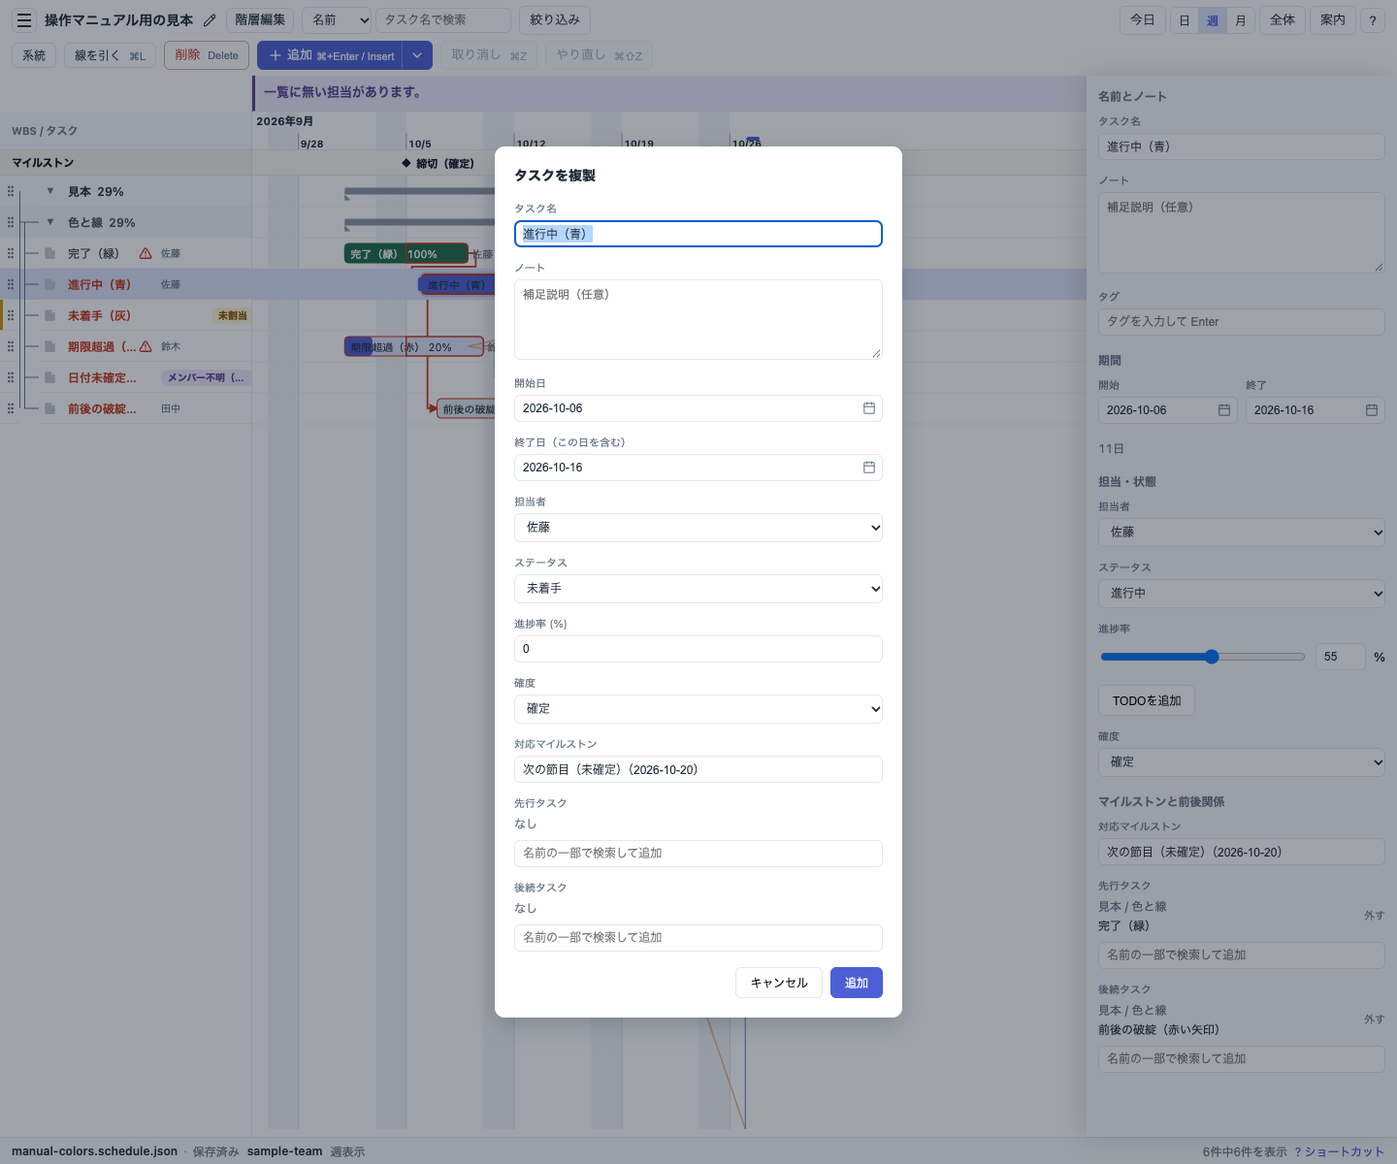
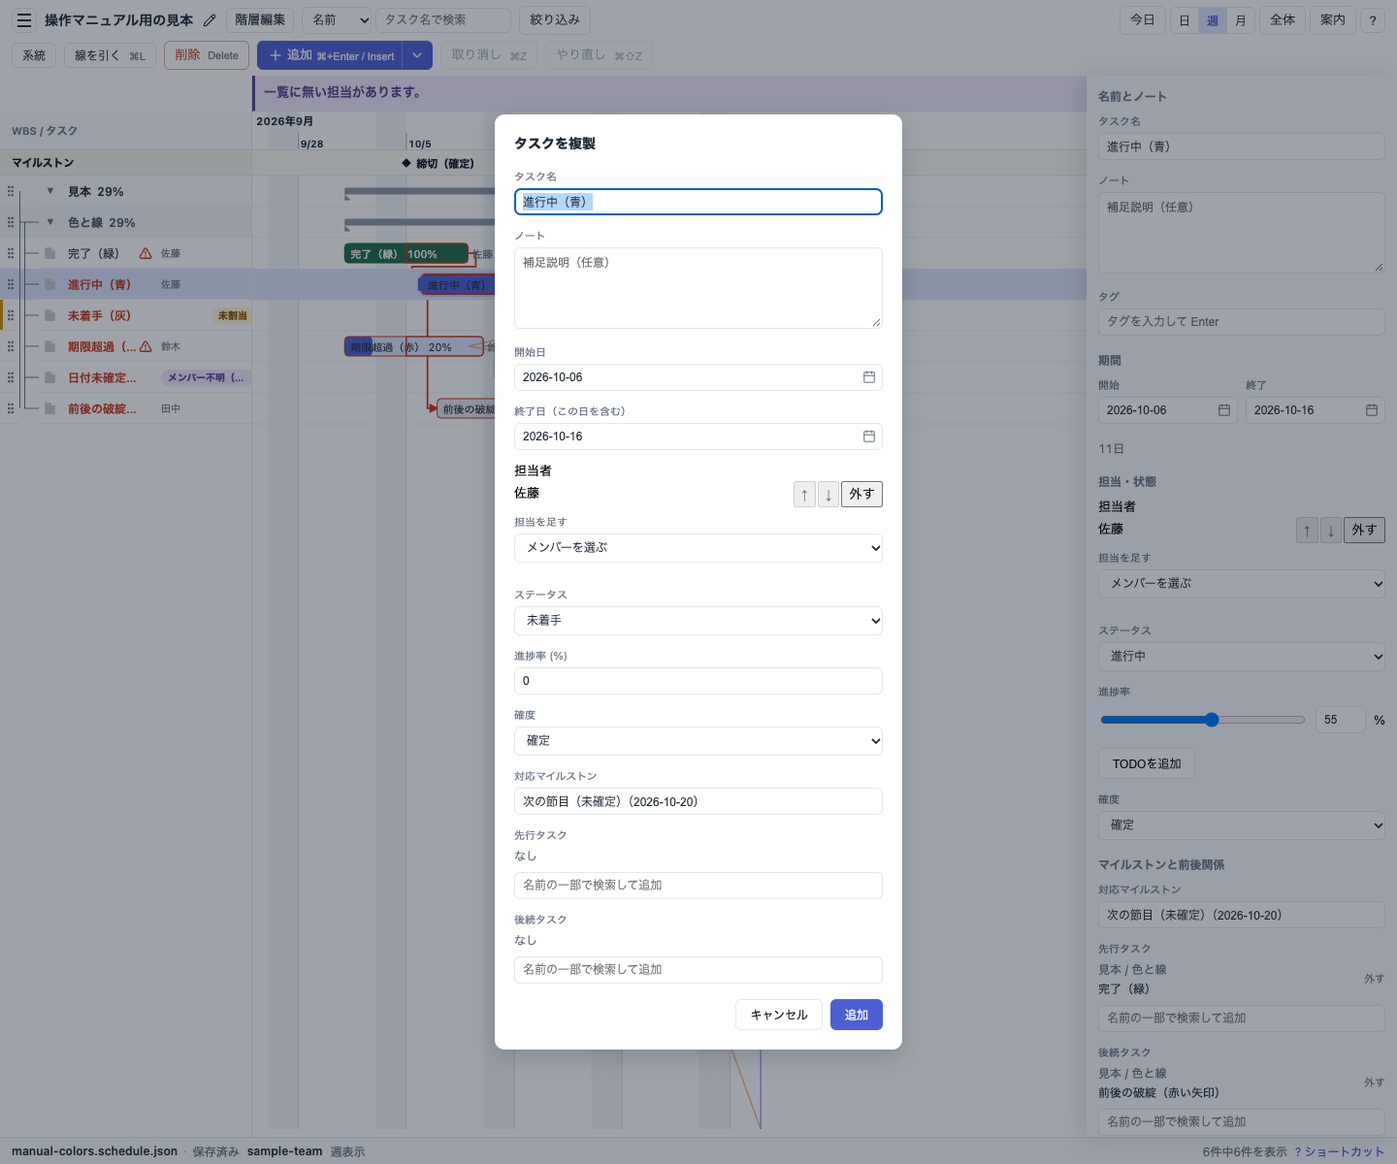
#401 の残りで文書と一人用の経路を複数担当仕様に揃える
write-schedule・スキーマ説明・操作マニュアルを更新し、未使用の担当表示経路を整理する。詳細と複製の図を撮り直し、manual-screenshot のスタブを足して撮影スクリプトを通す。

Closes #401
Closes #313

diff --git a/scripts/manual-screenshot/tauri-invoke.ts b/scripts/manual-screenshot/tauri-invoke.ts
@@ -4,6 +4,10 @@ type OpenPick = { path: string; contents: string };
 
 let pendingOpenPick: OpenPick | null = null;
 let openScheduleDiskContents: string | null = null;
+const memberCatalogBodies = new Map<string, string>();
+let selectedMemberCatalogId: string | null = null;
+const statusCatalogBodies = new Map<string, string>();
+let selectedStatusCatalogId: string | null = null;
 
 export function setManualScreenshotOpenPick(pick: OpenPick | null): void {
   pendingOpenPick = pick;
@@ -35,6 +39,12 @@ export async function manualScreenshotInvoke(
       return null;
     case "register_window_focus":
       return null;
+    case "read_focused_window_label":
+      return "main";
+    case "is_store_distribution":
+      return false;
+    case "report_external_schedule_drop_ready":
+      return null;
     case "unregister_window_session":
       return null;
     case "read_schedule_recovery":
@@ -44,6 +54,84 @@ export async function manualScreenshotInvoke(
     case "read_last_schedule_file":
       return null;
     case "clear_last_schedule_path":
+      return null;
+    case "get_members_settings":
+      return {
+        selectedCatalogId: selectedMemberCatalogId,
+        catalogs: [...memberCatalogBodies.keys()]
+          .sort((a, b) => a.localeCompare(b, "ja"))
+          .map((id) => ({ id, label: id })),
+      };
+    case "import_member_catalog": {
+      const catalogId = String(args.catalogId ?? "").trim();
+      const contents = String(args.contents ?? "");
+      if (catalogId) {
+        memberCatalogBodies.set(catalogId, contents);
+        if (selectedMemberCatalogId == null) {
+          selectedMemberCatalogId = catalogId;
+        }
+      }
+      return null;
+    }
+    case "read_member_catalog": {
+      const catalogId = String(args.catalogId ?? "");
+      return memberCatalogBodies.get(catalogId) ?? null;
+    }
+    case "delete_member_catalog": {
+      const catalogId = String(args.catalogId ?? "");
+      memberCatalogBodies.delete(catalogId);
+      if (selectedMemberCatalogId === catalogId) {
+        selectedMemberCatalogId = null;
+      }
+      return null;
+    }
+    case "set_selected_member_catalog": {
+      const catalogId = args.catalogId;
+      selectedMemberCatalogId =
+        typeof catalogId === "string" && catalogId.length > 0 ? catalogId : null;
+      return null;
+    }
+    case "get_statuses_settings":
+      return {
+        selectedCatalogId: selectedStatusCatalogId,
+        catalogs: [...statusCatalogBodies.keys()]
+          .sort((a, b) => a.localeCompare(b, "ja"))
+          .map((id) => ({ id, label: id })),
+      };
+    case "import_status_catalog": {
+      const catalogId = String(args.catalogId ?? "").trim();
+      const contents = String(args.contents ?? "");
+      if (catalogId) {
+        statusCatalogBodies.set(catalogId, contents);
+        if (selectedStatusCatalogId == null) {
+          selectedStatusCatalogId = catalogId;
+        }
+      }
+      return null;
+    }
+    case "read_status_catalog": {
+      const catalogId = String(args.catalogId ?? "");
+      return statusCatalogBodies.get(catalogId) ?? null;
+    }
+    case "set_selected_status_catalog": {
+      const catalogId = args.catalogId;
+      selectedStatusCatalogId =
+        typeof catalogId === "string" && catalogId.length > 0 ? catalogId : null;
+      return null;
+    }
+    case "release_field_extension_edit":
+      return null;
+    case "get_field_extensions_settings":
+      return { selectedCatalogIds: [], catalogs: [] };
+    case "get_calendar_state":
+      return { label: null };
+    case "read_recent_files":
+      return { schedules: [], workspaces: [] };
+    case "clear_recent_files":
+      return { schedules: [], workspaces: [] };
+    case "record_recent_files":
+      return args.store ?? { schedules: [], workspaces: [] };
+    case "read_app_calendar":
       return null;
     case "read_schedule_filter":
       return null;

diff --git a/src/model/assigneeDisplay.test.ts b/src/model/assigneeDisplay.test.ts
@@ -7,7 +7,6 @@ import {
   matchesUnassignedFilter,
   memberOptionLabel,
   assigneeExcelCellLabel,
-  resolveAssigneeDisplay,
   resolveAssigneeRowDisplay,
 } from "./assigneeDisplay";
 import { memberMapFromList } from "./assigneeDisplay";
@@ -27,26 +26,34 @@ describe("assigneeColumnChars", () => {
   });
 });
 
-describe("resolveAssigneeDisplay", () => {
+describe("resolveAssigneeRowDisplay", () => {
   const catalog = memberMapFromList(members);
   const duplicateNames = new Set(["田中"]);
 
   it("keeps empty as unassigned", () => {
-    expect(resolveAssigneeDisplay([], catalog).kind).toBe("unassigned");
+    expect(resolveAssigneeRowDisplay([], catalog, duplicateNames).kind).toBe(
+      "unassigned",
+    );
   });
 
   it("resolves a known id to text label", () => {
-    expect(resolveAssigneeDisplay(["sato"], catalog, duplicateNames)).toEqual({
+    expect(resolveAssigneeRowDisplay(["sato"], catalog, duplicateNames)).toEqual({
       kind: "text",
       label: "佐藤",
     });
   });
 
   it("marks ids missing from the catalog as allUnknown", () => {
-    expect(resolveAssigneeDisplay(["missing"], catalog).kind).toBe("allUnknown");
-    expect(resolveAssigneeDisplay(["sato"], null).kind).toBe("allUnknown");
     expect(
-      assigneeSidebarLabel(resolveAssigneeDisplay(["missing"], null)),
+      resolveAssigneeRowDisplay(["missing"], catalog, duplicateNames).kind,
+    ).toBe("allUnknown");
+    expect(resolveAssigneeRowDisplay(["sato"], null, duplicateNames).kind).toBe(
+      "allUnknown",
+    );
+    expect(
+      assigneeSidebarLabel(
+        resolveAssigneeRowDisplay(["missing"], null, duplicateNames),
+      ),
     ).toBe("メンバー不明（missing）");
   });
 
@@ -98,7 +105,11 @@ describe("assigneeExcelCellLabel", () => {
     expect(assigneeExcelCellLabel([], null)).toBe("未割当");
     expect(
       assigneeExcelCellLabel([], catalog),
-    ).toBe(assigneeSidebarLabel(resolveAssigneeDisplay([], catalog)));
+    ).toBe(
+      assigneeSidebarLabel(
+        resolveAssigneeRowDisplay([], catalog, duplicateNames),
+      ),
+    );
   });
 
   it("joins all assignees in order with読点", () => {
@@ -112,7 +123,7 @@ describe("assigneeExcelCellLabel", () => {
       assigneeExcelCellLabel(["sato", "tanaka"], catalog),
     ).toBe(
       assigneeSidebarLabel(
-        resolveAssigneeDisplay(["sato", "tanaka"], catalog, duplicateNames),
+        resolveAssigneeRowDisplay(["sato", "tanaka"], catalog, duplicateNames),
       ),
     );
   });

diff --git a/src/components/Sidebar.tsx b/src/components/Sidebar.tsx
@@ -15,7 +15,7 @@ import {
   assigneeColumnChars,
   assigneeSidebarLabel,
   duplicateMemberNamesFromCatalog,
-  resolveAssigneeDisplay,
+  resolveAssigneeRowDisplay,
 } from "../model/assigneeDisplay";
 import type { SidebarColumnsPreference } from "../model/viewPreferences";
 import { daysBetween, fmtMonthDay, parseDate } from "../model/dates";
@@ -242,7 +242,7 @@ export function Sidebar({
       assigneeColumnChars(
         rows.flatMap((row) => {
           if (row.type !== "task") return [];
-          const display = resolveAssigneeDisplay(
+          const display = resolveAssigneeRowDisplay(
             row.task.assigneeIds,
             memberCatalog,
             assigneeDuplicateNames,
@@ -1394,7 +1394,7 @@ function TaskSidebarRow({
     () => duplicateMemberNamesFromCatalog(memberCatalog),
     [memberCatalog],
   );
-  const assigneeDisplay = resolveAssigneeDisplay(
+  const assigneeDisplay = resolveAssigneeRowDisplay(
     task.assigneeIds,
     memberCatalog,
     assigneeDuplicateNames,

diff --git a/src/model/assigneeDisplay.ts b/src/model/assigneeDisplay.ts
@@ -61,14 +61,6 @@ export function resolveAssigneeRowDisplay(
   return { kind: "text", label };
 }
 
-export function resolveAssigneeDisplay(
-  assigneeIds: readonly MemberId[] | null,
-  catalog: Map<MemberId, Member> | null,
-  duplicateNames: ReadonlySet<string> = new Set(),
-): AssigneeRowDisplay {
-  return resolveAssigneeRowDisplay(assigneeIds ?? [], catalog, duplicateNames);
-}
-
 export function isResolvedAssignee(
   assigneeIds: readonly MemberId[],
   catalog: Map<MemberId, Member> | null,
@@ -89,9 +81,6 @@ export function taskHasUnknownAssignee(
 ): boolean {
   return assigneeIds.some((id) => isUnknownAssigneeId(id, catalog));
 }
-
-/** @deprecated taskHasUnknownAssignee を使う */
-export const isUnknownAssignee = taskHasUnknownAssignee;
 
 /** フィルタ「割り当てなし」: 空、またはカタログに解決できる担当が一人もいない。 */
 export function matchesUnassignedFilter(

diff --git a/scripts/manual-screenshot/tauri-window-shim.ts b/scripts/manual-screenshot/tauri-window-shim.ts
@@ -1,13 +1,29 @@
+type CloseRequestedEvent = { preventDefault: () => void };
+
 type WindowStub = {
   label: string;
   setTitle: () => Promise<void>;
-  onCloseRequested: () => Promise<() => void>;
+  close: () => Promise<void>;
+  onCloseRequested: (
+    handler: (event: CloseRequestedEvent) => void | Promise<void>,
+  ) => Promise<() => void>;
+  onFocusChanged: (
+    handler: (event: { payload: boolean }) => void,
+  ) => Promise<() => void>;
+  onDragDropEvent: (
+    handler: (event: {
+      payload: { type: string; paths?: string[] };
+    }) => void,
+  ) => Promise<() => void>;
 };
 
 const mainWindow: WindowStub = {
   label: "main",
   setTitle: async () => undefined,
+  close: async () => undefined,
   onCloseRequested: async () => () => undefined,
+  onFocusChanged: async () => () => undefined,
+  onDragDropEvent: async () => () => undefined,
 };
 
 export function getCurrentWindow(): WindowStub {

diff --git a/src/components/Timeline.tsx b/src/components/Timeline.tsx
@@ -64,7 +64,7 @@ import {
   visibleMonthHeaderLabels,
 } from "../model/monthHeader";
 import { visibleDayIndexRange } from "../model/timelineVisibleDays";
-import { resolveAssigneeDisplay, assigneeSidebarLabel, duplicateMemberNamesFromCatalog } from "../model/assigneeDisplay";
+import { resolveAssigneeRowDisplay, assigneeSidebarLabel, duplicateMemberNamesFromCatalog } from "../model/assigneeDisplay";
 import { KONVA_FONT_FAMILY } from "../model/fontStack";
 import type { Member, MemberId } from "../model/memberTypes";
 import type { StickyLayout } from "../model/stickyRows";
@@ -352,7 +352,7 @@ function TaskBar({
     () => duplicateMemberNamesFromCatalog(memberCatalog),
     [memberCatalog],
   );
-  const assigneeDisplay = resolveAssigneeDisplay(
+  const assigneeDisplay = resolveAssigneeRowDisplay(
     task.assigneeIds,
     memberCatalog,
     assigneeDuplicateNames,

diff --git a/src/model/screenContext.ts b/src/model/screenContext.ts
@@ -1,6 +1,6 @@
 import type { SearchField } from "./scheduleFilterPersistence";
 import { assigneeIdToJson, taskAssigneeIds } from "./assigneeIds";
-import { resolveAssigneeDisplay } from "./assigneeDisplay";
+import { duplicateMemberNamesFromCatalog, resolveAssigneeRowDisplay } from "./assigneeDisplay";
 import {
   BUILTIN_STATUS_ITEMS,
   normalizeStatusItem,
@@ -265,9 +265,10 @@ export function buildActiveFilterConditions(input: {
         name: UNASSIGNED_LABEL,
       });
     } else {
-      const display = resolveAssigneeDisplay(
+      const display = resolveAssigneeRowDisplay(
         [filters.assignee],
         input.memberCatalog,
+        duplicateMemberNamesFromCatalog(input.memberCatalog),
       );
       conditions.push({
         type: "assignee",

diff --git a/src/model/exportHtml.ts b/src/model/exportHtml.ts
@@ -22,7 +22,7 @@ import {
   taskBarExclusiveEnd,
   taskBarWidthPx,
 } from "./timeline";
-import { resolveAssigneeDisplay, assigneeSidebarLabel, duplicateMemberNamesFromCatalog } from "./assigneeDisplay";
+import { resolveAssigneeRowDisplay, assigneeSidebarLabel, duplicateMemberNamesFromCatalog } from "./assigneeDisplay";
 import { hasTaskNote, normalizeTaskNote } from "./taskNote";
 import type { Member, MemberId } from "./memberTypes";
 import {
@@ -86,7 +86,7 @@ function resolveExportAssigneeDisplay(
   assigneeIds: readonly MemberId[],
   input: ScheduleExportInput,
 ) {
-  return resolveAssigneeDisplay(
+  return resolveAssigneeRowDisplay(
     assigneeIds,
     input.memberCatalog,
     duplicateMemberNamesFromCatalog(input.memberCatalog),

diff --git a/src/model/bulkTaskEdit.ts b/src/model/bulkTaskEdit.ts
@@ -360,17 +360,6 @@ export function commonAssigneeIds(
   return first;
 }
 
-/** @deprecated commonAssigneeIds を使う */
-export function commonAssigneeId(
-  tasks: readonly Task[],
-): MemberId | null | "mixed" {
-  const common = commonAssigneeIds(tasks);
-  if (common === "mixed") return "mixed";
-  if (common.length === 0) return null;
-  if (common.length === 1) return common[0]!;
-  return "mixed";
-}
-
 export function commonMilestoneId(
   tasks: readonly Task[],
 ): ScheduleId | null | "mixed" {

diff --git a/.cursor/skills/write-schedule/SKILL.md b/.cursor/skills/write-schedule/SKILL.md
@@ -27,11 +27,11 @@ description: >-
 - `milestones`: 各 `name`, `date`, `confidence`（日付を合意したなら `committed`、まだなら `tentative`。新規なら `id` は UUID v4）, `groupId`（`milestoneGroups` のいずれか）
 - 階層と並び（並び替えフィールドはない。配列順＝画面の並び）。デスクトップ版が起動しているときは、木を直す起点に MCP の `current_schedule` を読む。段の定義だけが要るときは、読み取り（`selected_task`、`selected_tasks`、`filtered_tasks`）の応答の先頭にある `levels` も使う。各要素は `name`、`meaning`、空でないときだけ `instruction`、最後の段だけ `task: true`。アプリが止まっているときは、JSON に `levels` があればそれを読み、無ければ次の三つの構造の意味だけを使う（上のまとまり、その中のまとまり、日付を持つ一つの作業）。この三つの意味は会議の内容をどの段に置くかの基準にはしない。プロジェクトごとの意味はスキル本文に書かない。定義が無いときは `categories` → `groups` → `tasks` だけを書き、`levels` は足さない。定義があるときは、その段数の `levels` と深さの合う `outline` を書く。カテゴリとグループにも `id`（新規なら UUID v4）
 
-- 各タスク: `name`, `start`, `end`, `assigneeId`（未割当は `null`）, `status`, `progress`, `confidence`（日付を合意したなら `committed`、まだなら `tentative`）, `predecessors`, `milestoneId`（なしは `null`）。任意で `todos`（`text` と `done` の配列。1件以上あるときだけ書く。進捗はアプリが件数から決める）, `tags`（説明用タグの配列。ユーザーから渡されたときだけ書く）, `note`（補足説明。ユーザーから渡されたときだけ書く）
+- 各タスク: `name`, `start`, `end`, `assigneeId`（未割当は `null`。一人はメンバー id の文字列。二人以上は入れた順の id 配列。同じ id は1回だけ）, `status`, `progress`, `confidence`（日付を合意したなら `committed`、まだなら `tentative`）, `predecessors`, `milestoneId`（なしは `null`）。任意で `todos`（`text` と `done` の配列。1件以上あるときだけ書く。進捗はアプリが件数から決める）, `tags`（説明用タグの配列。ユーザーから渡されたときだけ書く）, `note`（補足説明。ユーザーから渡されたときだけ書く）
 - タスクとマイルストンの `confidence` が入力から分からなければ、JSON を書かず不足として返す。未確定を既定にしない
 - `status` には、ユーザーから渡された **ステータス一覧** の `id` だけを使う。一覧は次の順で探す。(1) 設定ファイルに `statuses` のパスがあるときは、その JSON を読み、各項目の `id`、`name`、`role`、`description`、任意の `instruction` を使う。`schemaVersion` が 1 のときは、アプリと同じ規則で `closed` を `role` に読み替える（`not-started`・`in-progress`・`done` の `id` は `closed` より先。それ以外は `closed` が true なら `done`、false なら `started`）。(2) 設定ファイルはあるが `statuses` が無いときは、組み込みの三件（`not-started` 未着手、`in-progress` 着手済み、`done` 完了）を使う。起動中でも MCP の一覧は使わない。(3) 設定ファイルが無いときは、起動中のデスクトップ版の MCP 読み取り（`selected_task`、`selected_tasks`、`filtered_tasks`）の応答にある `statuses`（`levels` の次）。(4) どちらも無いときだけ、同じ三件から選ぶ。選ぶ材料は `description` である。`name` は画面の名前であり、選ぶ定義にはしない。`role` はアプリの描き方である。同じ `role` の項目は複数あってよい。`role` が `done` だから完了、とは選ばない。二つの `description` が同じ依頼に合うときは `id` を選ばず尋ねる。合う項目が一覧に無いときは、`id` を作らず、JSON を書かずに不足として返す。項目の追加は、ユーザーが頼んだときだけ提案する（設定の「ステータス」で足す）。`instruction` が無い項目のために進捗や確認を足さない。`instruction` があるときは、選んだあとにそこに書いてあることだけを守る。進捗の数値が書いてあればその値にし、移す前に確認すると書いてあれば、移る前の項目と移った先の項目のどちらに書いてあっても、スケジュールを書く前に利用者へ尋ね、答えがあるまで書かない。`description` と `instruction` はタスクへコピーしない。チームごとの文はステータス一覧の項目にあり、スキル本文には足さない
 - どの階層にも置けそうなものや、合う階層が無いものは、スケジュールを書かず、不足として返すか尋ねる。階層を新しく足すことと、意味を作り直すことは、利用者が頼んだときだけ。各階層の `meaning` に書くのは、そこに何を置くか。隣の階層にも置けそうなときだけ、分かれ目を一文足す。置いたあとの日付や進捗の扱いは書かない。`instruction` が無い段のために、日付や進捗の扱いを足さない。`instruction` があるときは、そこに置いたあとにそこに書いてあることだけを守る。`meaning` と `instruction` はタスクへコピーしない。起動中の更新で、今ある段への見出し追加（グループの追加など）は段数を変えない。`current_schedule` の木に指定の名前の見出しを1件足し、`replace_schedule` する。追加先が一つに定まらないときは置き換え前に尋ねる。利用者に階層ダイアログを開かせない。段を足すのは、利用者が段を足すと言ったときだけ。どの段にも置けない、だけでは段を足さない。段を足すときは、`levels` に名前と意味を入れ、入れ子も同じ段数に揃える。新しい段はタスクの直前に入れる。今タスクを持っている各枝の直下に、その段の名前の見出しを1つ入れ、今のタスクをその子へ移す。意味はその段に何を置くかを一文で書く。仮の一文で閉じたままにしない。揃った JSON は、画面の段数と違っても `replace_schedule` で置き換えられる。段数だけ足して入れ子が揃っていない JSON は拒否される
-- 担当を付けるタスクには、ユーザーから渡された **メンバー id 一覧** に含まれる id だけを使う。一覧に無い人がいる場合は JSON を書かず、不足として返す
+- 担当を付けるタスクには、ユーザーから渡された **メンバー id 一覧** に含まれる id だけを、入れた順に使う。同じ id を並びに2回書かない。割合や人ではない空の席は書かない。マイルストンには担当を付けない。一覧に無い人がいる場合は JSON を書かず、不足として返す
 
 日付・担当・期間を推測で埋めない。メンバー JSON ファイル自体はこの Skill では生成しない（`write-members` で作り、アプリ側で取り込む）。
 
@@ -73,7 +73,7 @@ description: >-
 - `predecessors`: 先行タスクの `id` の配列（後続は各タスクの `predecessors` から導かれる）
 - タスク期間は **終了日を含む**（`end` は開始日以降。1 日だけなら `start` と `end` を同じ日にする）
 - カテゴリ、グループ、タスク、マイルストン、マイルストングループの ID は文書内で重複しない UUID。カテゴリ名は文書内で重複しない。グループ名は同じカテゴリの中で重複しない。マイルストングループの名前は、その中で重複しない
-- `assigneeId` はメンバー一覧の `id`（UUID である必要はない）
+- `assigneeId` はメンバー一覧の `id`（UUID である必要はない）。未割当は `null`。一人は id の文字列。二人以上は入れた順の id 配列。空の配列は書かない
 - `tags` はユーザーから渡されたタグがあるときだけタスクに足す。各要素は1文字以上。空文字や空白だけは含めず、0件ならプロパティ自体を書かない
 - `note` はユーザーから渡された補足があるときだけタスクに足す。空文字や空白だけはプロパティ自体を書かない
 - 追加項目の値は、使用中の拡張の合成キー `プラグインID_項目ID` を `fieldValues` に書く。スケジュール JSON に `fields` は書かない。定義は拡張 JSON（`write-fields`）に置く。定義に無いキーは型が正しければ残る。意味、指示、必須、初期値、候補は拡張 JSON にあり、スキル本文には書かない

diff --git a/docs/user-manual/tutorial.md b/docs/user-manual/tutorial.md
@@ -33,7 +33,7 @@ write-schedule スキルに従い、schedule-viewer 用のスケジュール JSO
 
 - プロジェクトの title: （例: 〇〇プロジェクト）
 - カテゴリ、グループ、タスクの階層と並び: （WBS の構造を書く）
-- 各タスク: name、start、end、confidence（日付を合意したなら committed、まだなら tentative）、assigneeId（未割当は null）、status、progress、predecessors（先行タスクの id。無ければ空）
+- 各タスク: name、start、end、confidence（日付を合意したなら committed、まだなら tentative）、assigneeId（未割当は null。一人は id の文字列。二人以上は入れた順の id 配列）、status、progress、predecessors（先行タスクの id。無ければ空）
 - 担当者 ID の一覧（assigneeId に使ってよい id だけ）: （メンバー JSON の id を列挙）
 - マイルストン（あれば）: name、date、confidence、groupId
 
